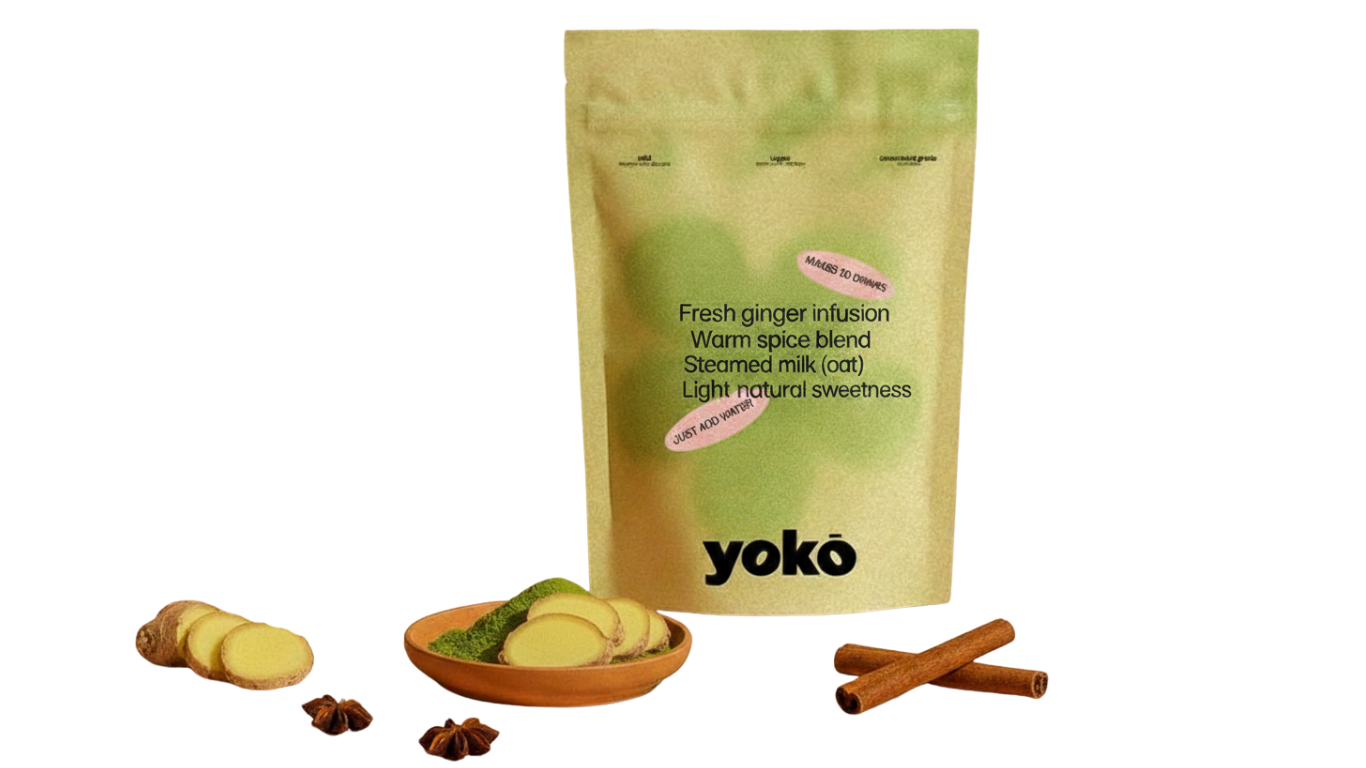
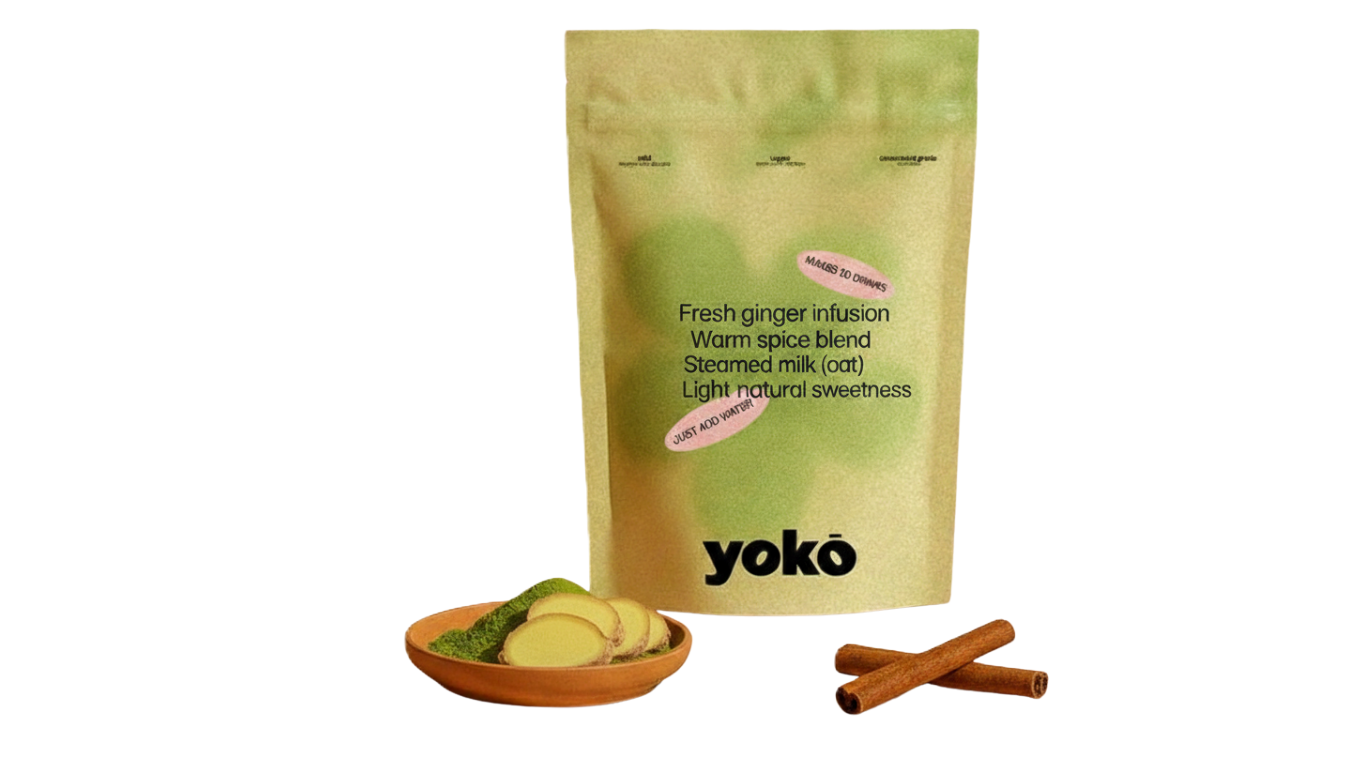
elements

Changed region(s): [[0.0922, 0.7812, 0.2767, 0.9688], [0.3075, 0.9375, 0.369, 1.0], [0.369, 0.75, 0.3997, 0.7812]]

diff --git a/yoko-matcha-website/src/components/Flavors.css b/yoko-matcha-website/src/components/Flavors.css
@@ -95,15 +95,15 @@
 /* Manual balancing per pouch */
 
 .ginger-img {
-  transform: scale(1.20);
+  transform: scale(1.28) translateX(-20px);
 }
 
 .vanilla-img {
-  transform: scale(1.45);
+  transform: scale(1.55)  translateX(-10px);
 }
 
 .seasalt-img {
-  transform: scale(1.25) translateY(-15px);
+  transform: scale(1.25) translateY(-15px) translateX(23px);
   
 }
 
